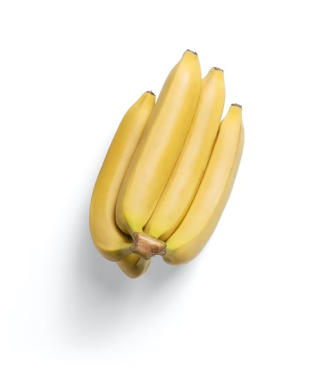
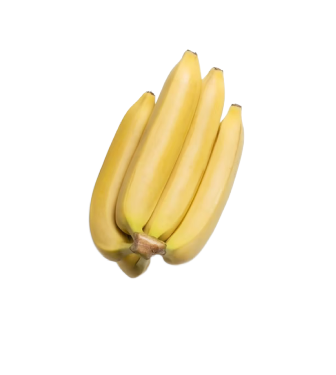
Оптимизировал изображения и устранил некоторые неровности

diff --git a/css/style.css b/css/style.css
@@ -22,6 +22,7 @@ body {
 
 .burger-menu__link {
   color: #274C5B;
+  font-size: 20px;
 }
 
 /* Header */
@@ -72,7 +73,7 @@ body {
   border: 0;
   outline: none;
   background: #FAFAFA;
-  padding: 20px;
+  padding: 22px 20px;
   color: gray;
 }
 
@@ -122,7 +123,7 @@ body {
 
 /* Main */
 .hero-section {
-  background: url("../images/hero_background.png");
+  background: url("../images/hero_background.webp");
   background-size: cover;
   background-repeat: no-repeat;
   padding: 250px 0;
@@ -182,13 +183,13 @@ body {
 }
 
 .promotion1 {
-  background: url("../images/promo1.png");
+  background: url("../images/promo1.webp");
   background-size: cover;
   background-repeat: no-repeat; 
 }
 
 .promotion2 {
-  background: url("../images/promo2.png");
+  background: url("../images/promo2.webp");
   background-size: cover;
   background-repeat: no-repeat; 
 }
@@ -219,7 +220,8 @@ body {
 
 /* Section - About Us */
 .about-section {
-  padding: 0 260px 0 49px;
+  background-color: #F9F8F8;
+  padding: 86px 260px 0 49px;
   display: flex;
   align-items: center;
   margin-bottom: 209px;
@@ -260,6 +262,8 @@ body {
 
 .advant img {
   padding: 27px;
+  border-radius: 20px;
+  background: #FFF;
 }
 
 .advant__title {
@@ -290,6 +294,7 @@ body {
 .categories-section {
   margin-bottom: 204px;
 }
+
 .categories-section .section__uptitle,
 .categories-section .section__title {
   text-align: center;
@@ -315,6 +320,8 @@ body {
 
 .product-card__img {
   height: 324px;
+  display: block;
+  margin: 0 auto;
 }
 
 .product-card__category {
@@ -385,7 +392,7 @@ body {
 }
 
 .testimonial-section {
-  background-image: url("../images/testimonial-image.jpg");
+  background-image: url("../images/testimonial-image.webp");
   background-repeat: no-repeat;
   background-size: cover;
   text-align: center;
@@ -550,15 +557,15 @@ body {
 }
 
 .lenta-item:nth-child(1) {
-  background-image: url("../images/lenta-img1.png");
+  background-image: url("../images/lenta-img3.webp");
 }
 
 .lenta-item:nth-child(2) {
-  background-image: url("../images/lenta-img2.png");
+  background-image: url("../images/lenta-img2.webp");
 }
 
 .lenta-item:nth-child(3) {
-  background-image: url("../images/lenta-img3.png");
+  background-image: url("../images/lenta-img1.webp");
 }
 
 .lenta-item__text {
@@ -687,7 +694,7 @@ body {
 
 .mailing-section .container {
   padding: 105px 87px;
-  background-image: url("../images/email.png");
+  background-image: url("../images/email.webp");
   background-repeat: no-repeat;
   background-size: cover;
   border-radius: 30px;

diff --git a/css/media.css b/css/media.css
@@ -28,6 +28,10 @@
         padding: 80px 0;
         margin-bottom: 36px;
     }
+
+    .section__uptitle {
+        font-size: 24px;
+    }
     
     .section__title {
         font-size: 20px;
@@ -96,6 +100,7 @@
     }
 
     .advant img {
+        width: 35px;
         padding: 5px;
     }
 
@@ -110,7 +115,44 @@
         font-size: 12px;
     }
 
-    .about-section img[src="images/about-img.png"] {
+    .about-section img[src="images/about-img.webp"] {
         display: none;
+    }
+
+    .about-section .button {
+        display: none;
+    }
+
+    .product-cards {
+        margin-bottom: 22px;
+    }
+
+    .product-card {
+        width: 260px;
+    }
+
+    .product-card__price {
+        gap: 15px;
+    }
+
+    .product-card__new-price {
+        font-size: 16px;
+    }
+
+    .product-card__old-price {
+        font-size: 13px;
+    }
+
+    .product-card__title {
+        font-size: 15px;
+    }
+
+    .product-card .product-card__img {
+        height: 229px;
+    }
+
+    .categories-section .button {
+        padding: 15px 20px;
+        font-size: 16px;
     }
 }

diff --git a/index.html b/index.html
@@ -68,7 +68,7 @@
     </section>
 
     <section class="about-section">
-      <img src="images/about-img.png" alt="">
+      <img src="images/about-img.webp" alt="">
       <div class="about-text">
         <p class="section__uptitle">О нас</p>
         <h3 class="section__title">Мы верим в работу аккредитованных фермеров</h3>
@@ -162,7 +162,7 @@
     </section>
 
     <section class="shopdesc-section">
-      <img src="images/about-img2.png" alt="">
+      <img src="images/about-img2.webp" alt="">
       <div class="description">
         <p class="section__uptitle">Экологически чистый</p>
         <h3 class="section__title">Organick - это эко-дружелюбный магазин</h3>
